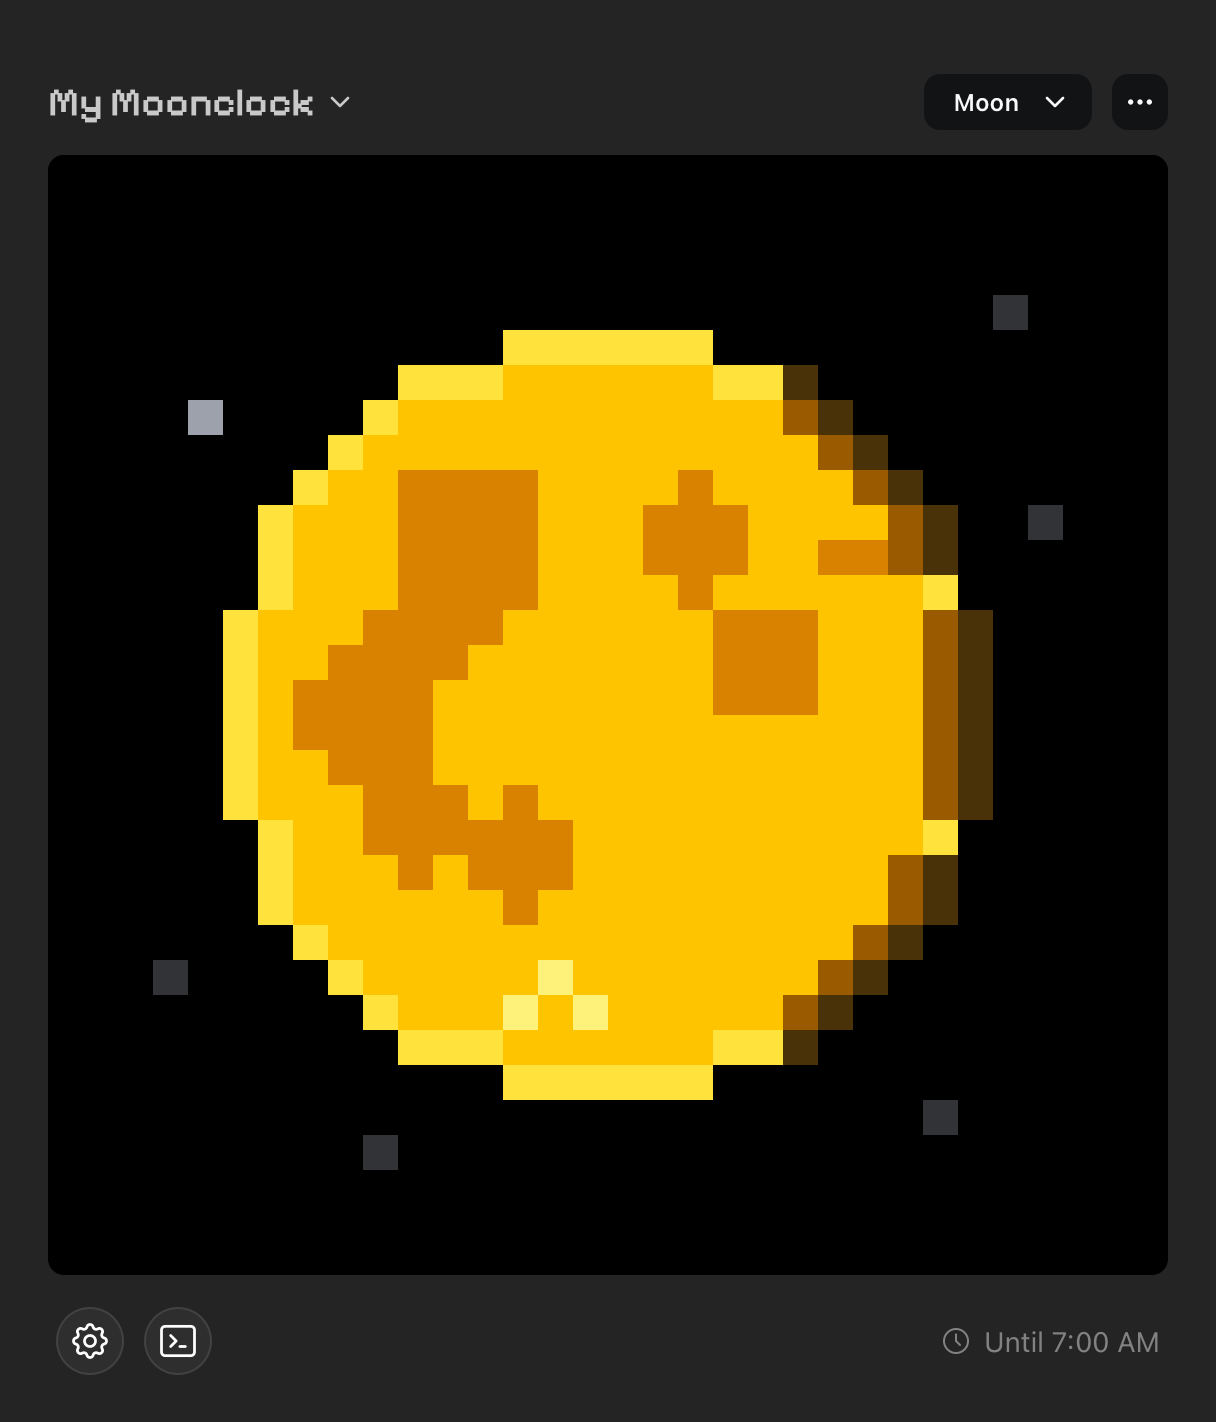
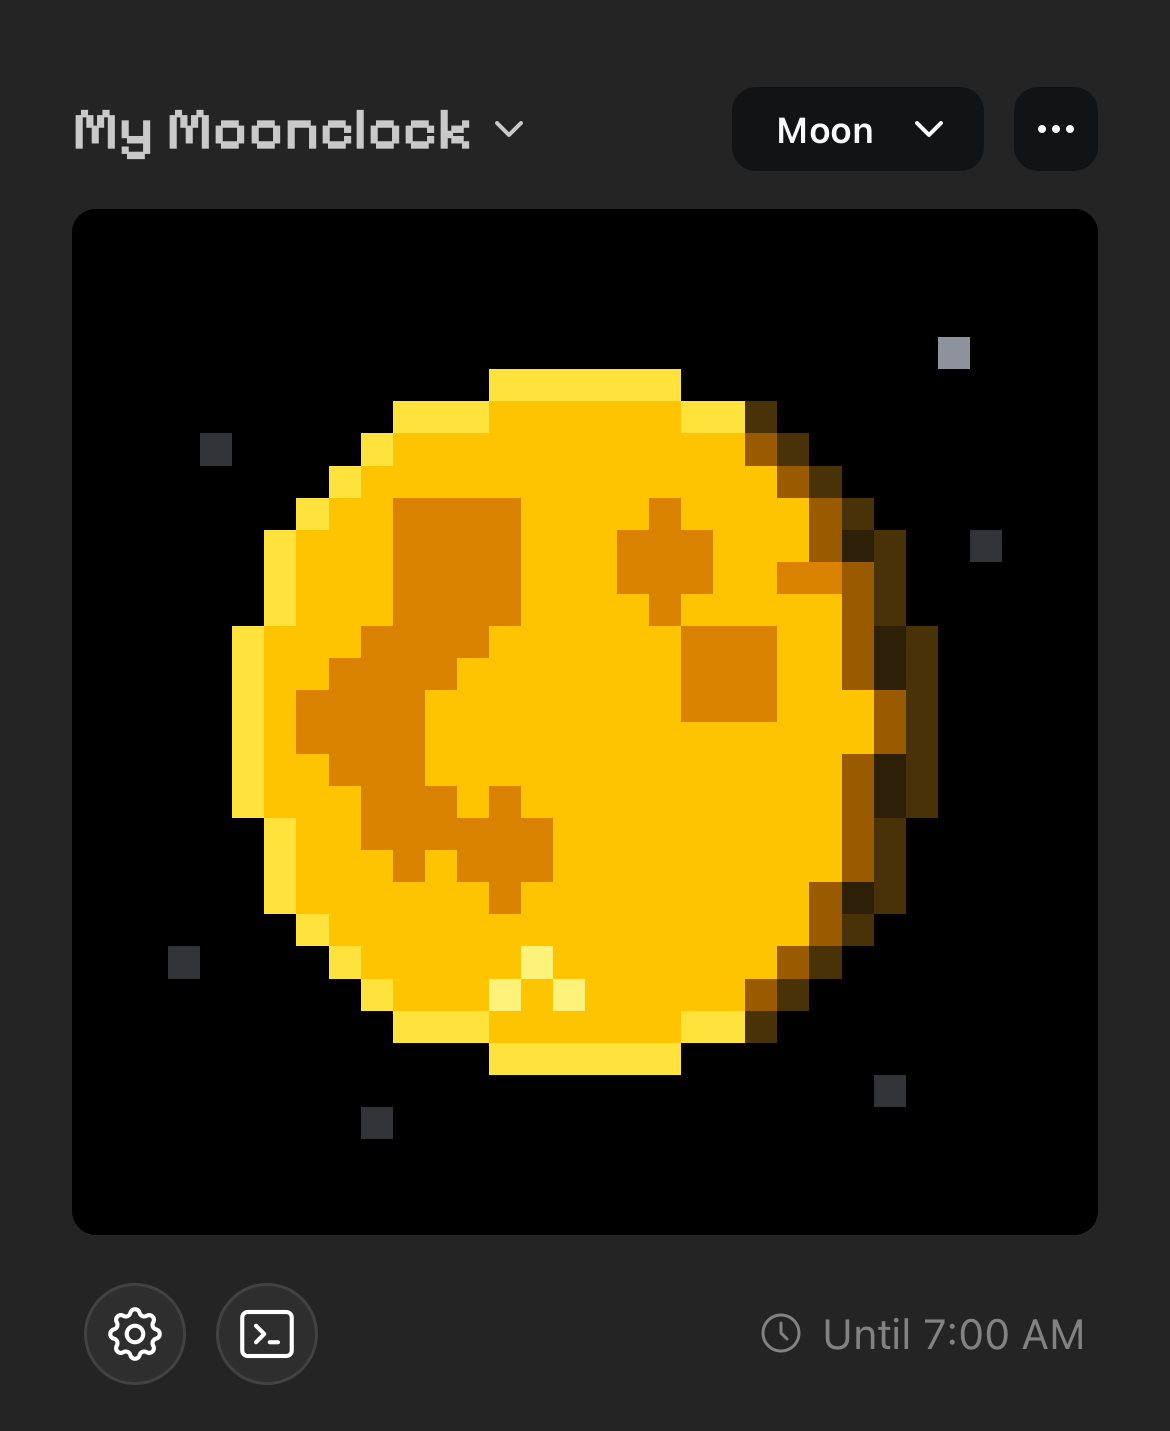
Recapture the webapp shots at a phone viewport
The two images in "The Webapp" were desktop captures: the preset editor
in particular showed the wide modal layout, which is not what anyone
reaching moonclock.local from their phone actually sees. The app is
driven from a phone in practice — that is the whole point of the mDNS
hostname and the setup portal — so the README should show it that way.

Recaptured both in WebKit at the iPhone 12 viewport (390x664 CSS, 3x
DPR), driven by Playwright against `npm run app:test` seeded through
e2e/support/seedDatabase.ts, with an emulated hardware process supplying
the live SSE pixel stream so the panel mirror renders the real moon
rather than a blank square. Cropped to the panel card plus its controls
row, and to the modal.

Widths in the README drop from 384 to 280 so the taller phone-shaped
shots still sit side by side.

diff --git a/README.md b/README.md
@@ -33,8 +33,8 @@ The animated scenes, rendered straight from the scene code.
 The virtual panel mirrors the hardware pixel for pixel over SSE, so the app always shows exactly what's on the wall. A preset pairs a scene with an expiration — the moon below runs until 7:00 AM tomorrow:
 
 <p float="left">
-    <img src="images/webapp-moon-active.png" width="384" />
-    <img src="images/webapp-preset-editor.png" width="384" />
+    <img src="images/webapp-moon-active.png" width="280" />
+    <img src="images/webapp-preset-editor.png" width="280" />
 </p>
 
 ## Technology
